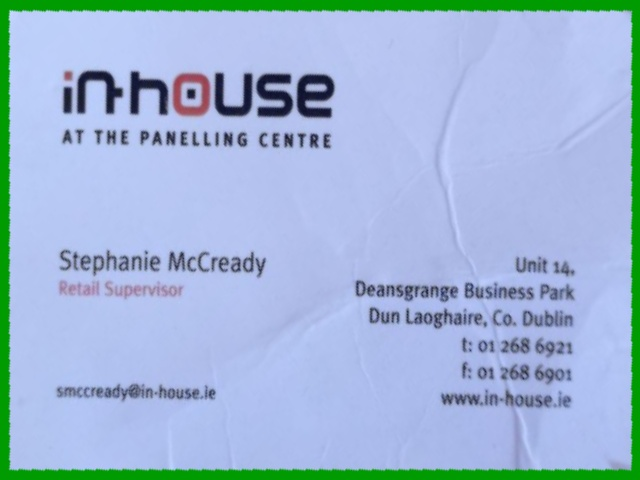
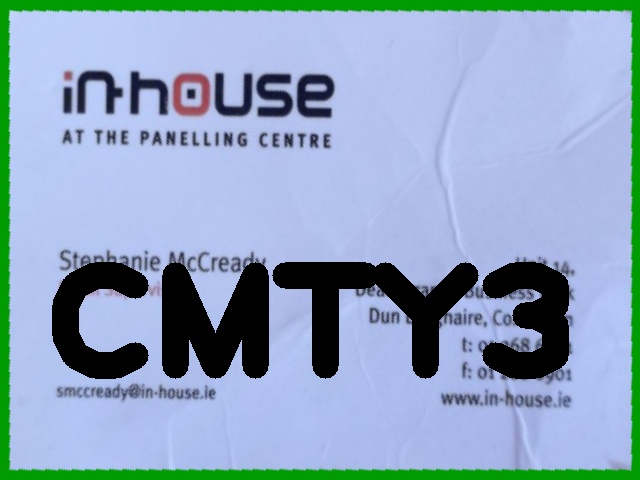
Added watermark option and timestamp option.

Changed region(s): [[0.0625, 0.5312, 0.9062, 0.8125]]

diff --git a/main.py b/main.py
@@ -4,6 +4,7 @@ libraries
 
 import cv2
 import numpy as np
+from datetime import datetime
 
 
 def nothing(x):
@@ -57,7 +58,7 @@ def reorder(myPoints):
     myPointsNew[2] = myPoints[np.argmax(diff)]
     
     return myPointsNew   
- 
+
 def drawRectangle(img,biggest,thickness):
     cv2.line(img, (biggest[0][0][0], biggest[0][0][1]), (biggest[1][0][0], biggest[1][0][1]), (0, 155, 0), thickness)
     cv2.line(img, (biggest[0][0][0], biggest[0][0][1]), (biggest[2][0][0], biggest[2][0][1]), (0, 155, 0), thickness)
@@ -104,17 +105,14 @@ while True:
     cv2.drawContours(imgThreshold, contours, -1, (255, 0, 0), 10)
     
     biggest, max_area = biggestContour(contours)
-    biggestContour(contours)
-    reorder(biggest)
     myPointsNew = reorder(biggest)
-    drawRectangle(imgContours, myPointsNew, 10)
+    draw = drawRectangle(imgContours, myPointsNew, 10)
 
 
     pts1 = np.float32(myPointsNew)
     pts2 = np.float32([[0, 0], [widthImg, 0], [0, heightImg], [widthImg, heightImg]])
     matrix = cv2.getPerspectiveTransform(pts1, pts2)
     imgWarpColored = cv2.warpPerspective(imgContours, matrix, (widthImg, heightImg))
-
 
     cv2.imshow("1. Original", img)
     cv2.imshow("2. Grayscale", imgGray)
@@ -135,7 +133,38 @@ while True:
 
     # SAVE IMAGE WHEN 's' key is pressed
     if cv2.waitKey(1) & 0xFF == ord('s'):
+        # print("saving")
+
+        while True:
+            watermarkOption = input("Do you want to add a watermark to the image? y/n ")
+            while True:
+                if watermarkOption == "y":
+                    print("Adding watermark to image.")
+                    watermark = "CMTY3"
+                    cv2.putText(imgWarpColored, watermark, (45, 375), cv2.FONT_HERSHEY_PLAIN, 10, (0, 0, 0), 25)
+
+                    break
+                
+                elif watermarkOption == "n":
+
+                    break
+            
+            timestampOption = input("Do you want to add a timestamp to the image? y/n ")
+            while True:
+                if timestampOption == "y":
+                    print("Adding timestamp to image.")
+                    timestamp = datetime.now()
+                    cv2.putText(imgWarpColored, str(timestamp), (65, 375), cv2.FONT_HERSHEY_PLAIN, 10, (0, 0, 0), 25)
+
+                    break
+
+                elif timestampOption == "n":
+                    
+                    break
+            break
+
         print("saving")
+                    
         # save image to folder using cv2.imwrite()
         cv2.imwrite("Scanned/myImage"+str(count)+".jpg", imgWarpColored)
         cv2.waitKey(300)
